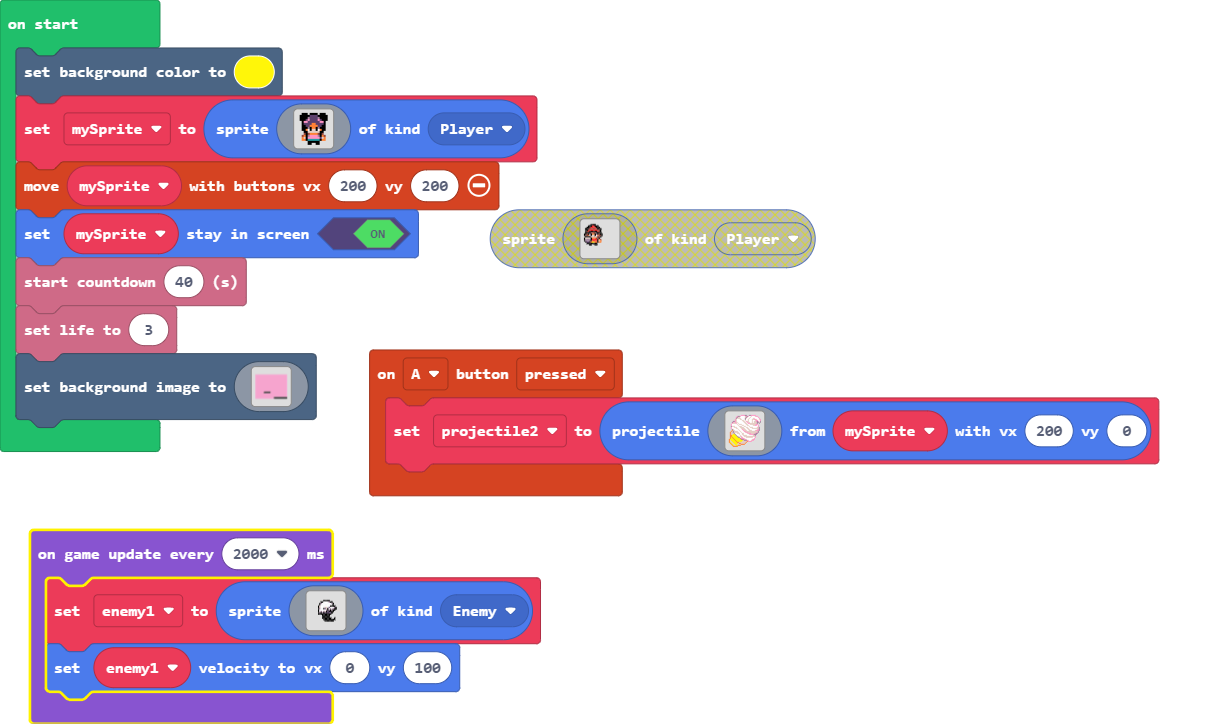
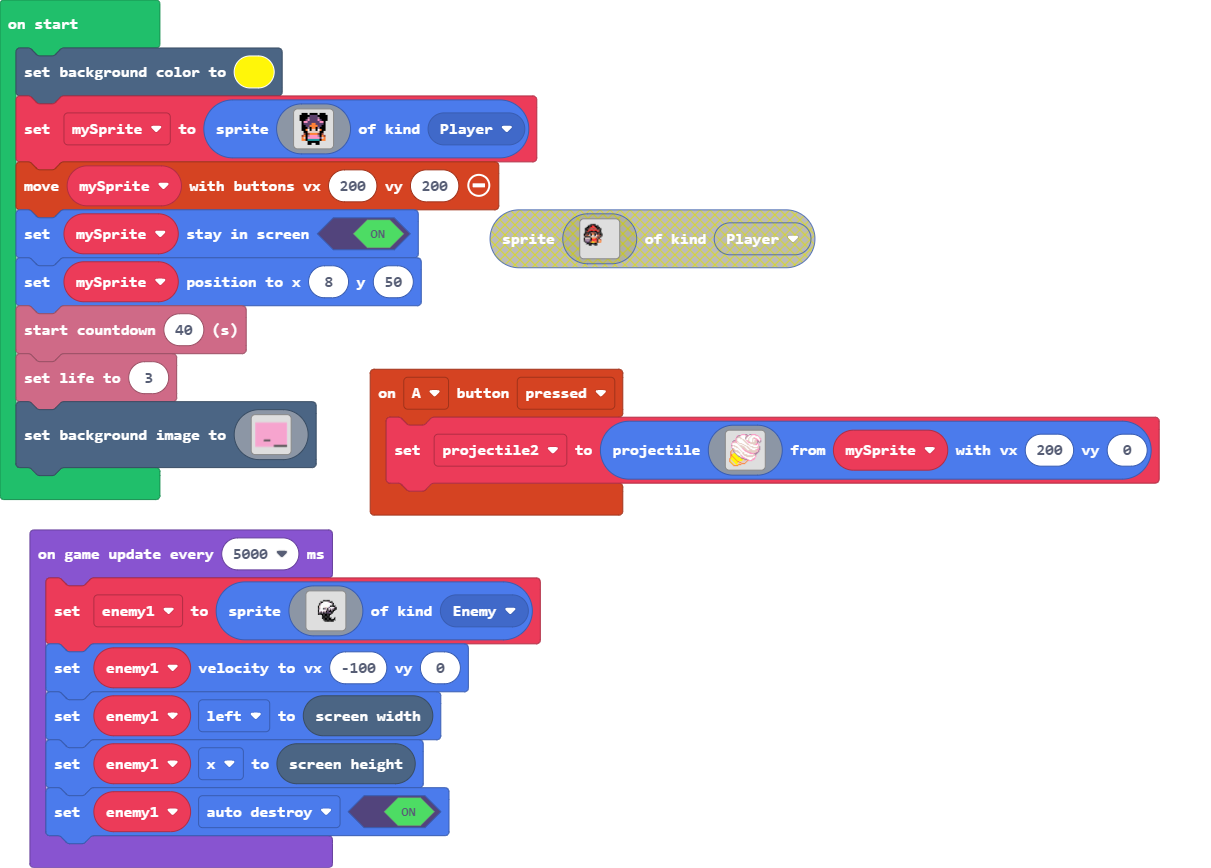
Update main.blocks, main.ts, images.g.jres, images.g.ts

diff --git a/main.ts b/main.ts
@@ -58,6 +58,7 @@ mySprite = sprites.create(img`
     `, SpriteKind.Player)
 controller.moveSprite(mySprite, 200, 200)
 mySprite.setStayInScreen(true)
+mySprite.setPosition(8, 50)
 info.startCountdown(40)
 info.setLife(3)
 scene.setBackgroundImage(img`
@@ -182,7 +183,7 @@ scene.setBackgroundImage(img`
[2 lines of base64/hex data omitted]
     `)
-game.onUpdateInterval(2000, function () {
+game.onUpdateInterval(5000, function () {
     enemy1 = sprites.create(img`
         ........................
         ........................
@@ -209,5 +210,8 @@ game.onUpdateInterval(2000, function () {
         ........................
         ........................
         `, SpriteKind.Enemy)
-    enemy1.setVelocity(0, 100)
+    enemy1.setVelocity(-100, 0)
+    enemy1.left = scene.screenWidth()
+    enemy1.x = scene.screenHeight()
+    enemy1.setFlag(SpriteFlag.AutoDestroy, true)
 })

diff --git a/images.g.ts b/images.g.ts
@@ -359,6 +359,32 @@ fbbbbf2222fd4...........
 ........................
 ........................
 `;
+            case "image11":return img`
+........................
+.....ffff...............
+...fff22fff.............
+..fff2222fff............
+.fffeeeeeefff...........
+.ffe222222eef...........
+.fe2ffffff2ef...........
+.ffffeeeeffff...........
+ffefbf44fbfeff..........
+fee41fddf14eef..........
+.ffffdddddeef...........
+fddddf444eef............
+fbbbbf2222f4e...........
+fbbbbf2222fd4...........
+.fccf45544f44...........
+..ffffffff..............
+....ff..ff..............
+........................
+........................
+........................
+........................
+........................
+........................
+........................
+`;
         }
         return null;
     })
